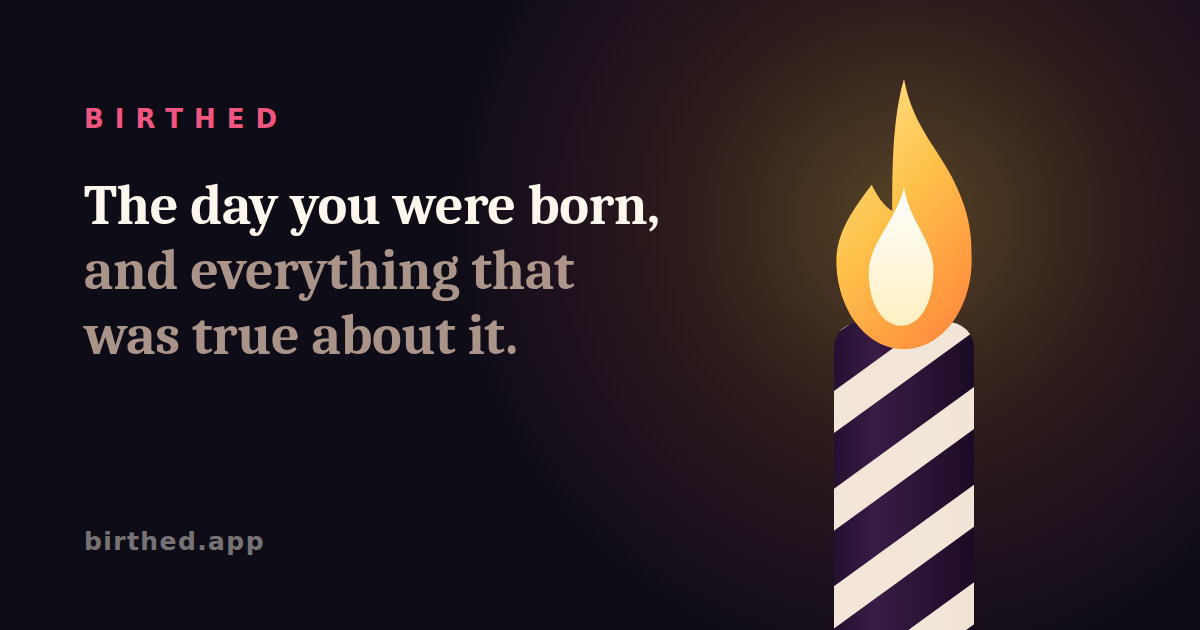
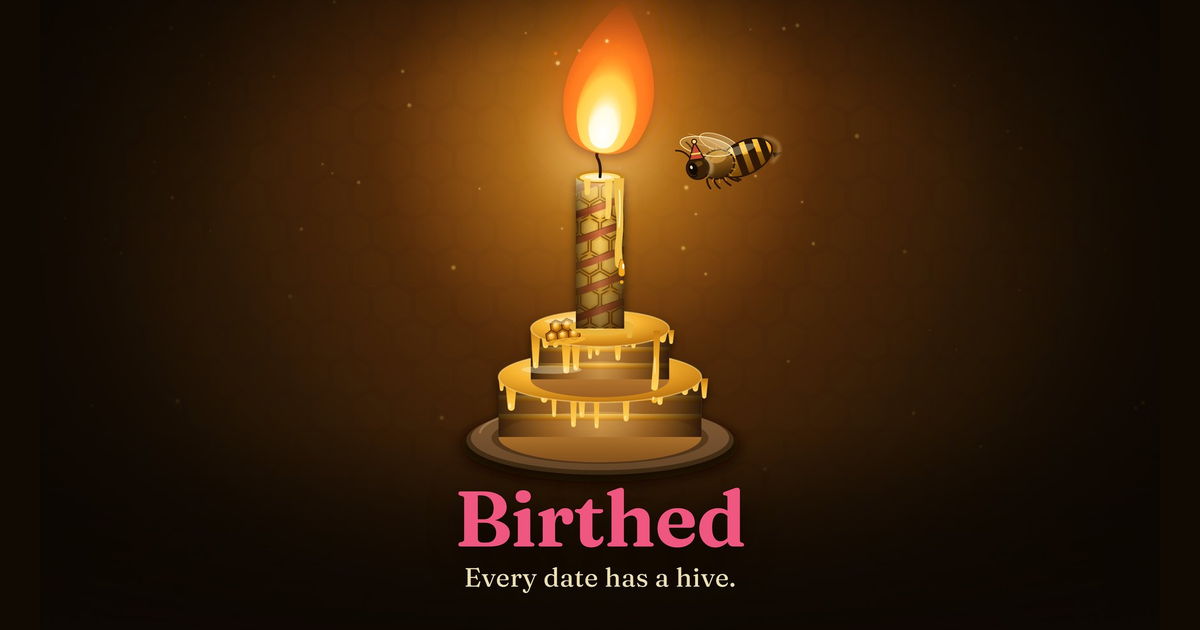
feat(web): put the hero art on the site
The cake above the About headline, the bees on the blank board of a date
with no hive yet with the opening date beside them, and the titled cake
as the share picture for the About page and every date without a board.
The promise no longer points at the archive that came off. Nothing goes
on a date with a board, so the first Buzz button stays in the first
screen. 380 web tests.

Claude-Session: https://claude.ai/code/session_01FHNyDxU3AhPSi6rzssSxXh

diff --git a/web/test/render.test.ts b/web/test/render.test.ts
@@ -752,10 +752,11 @@ test("the form on the add page loads nothing", () => {
   const html = renderAdd(API);
   const style = html.slice(html.indexOf("<style>"), html.indexOf("</style>"));
   assert.ok(style.length > 0, "the stylesheet is inlined into the page");
-  // The fetches the stylesheet makes are the typeface and the honeycomb
-  // behind the board, both from this origin, since September 22, 2026.
-  // Nothing else, and nothing from anywhere else.
-  assert.ok(!style.replace(/url\("\/(fonts\/[^"]+|honeycomb\.svg)"\)/g, "").includes("url("), "nothing in the stylesheet fetches anything but the font and the honeycomb from here");
+  // The fetches the stylesheet makes are the typeface, the honeycomb behind
+  // the board since September 22, 2026, and the hero art behind a date with
+  // no hive since October 18, 2026, all from this origin. Nothing else, and
+  // nothing from anywhere else.
+  assert.ok(!style.replace(/url\("\/(fonts\/[^"]+|honeycomb\.svg|hero\/[a-z0-9-]+\.(webp|jpg))"\)/g, "").includes("url("), "nothing in the stylesheet fetches anything but the font, the honeycomb and the hero art from here");
   assert.match(style, /\.select::after\s*{[^}]*border-right/, "the chevron is drawn with borders");
 });
 
@@ -1213,3 +1214,31 @@ test("the stylesheet is sent without its comments, and nothing in it depends on 
   assert.equal(stripCss('a { content: "x"; } /* why */\n\n\n  b { color: red; }'), 'a { content: "x"; } \nb { color: red; }');
 });
 
+
+test("the hero art: the cake above the About headline, and the bees on a date with no hive yet", () => {
+  // design/hero, October 18, 2026. Served from this site, so the image
+  // policy stays 'self'. Not on a date with a board: the board is the page.
+  const about = renderHome();
+  assert.ok(about.includes('<picture class="herobanner">'));
+  assert.ok(about.includes('srcset="/hero/hero-cake-1280.webp 1280w, /hero/hero-cake-1920.webp 1920w"'));
+  assert.ok(about.includes('src="/hero/hero-cake-1280.jpg"') && about.includes('width="1280" height="720"'), "a JPEG fallback that holds its place");
+  assert.ok(about.indexOf("herobanner") < about.indexOf("<h1>"), "the art comes before the headline");
+  const empty = renderDayPage({ month: 3, day: 3 });
+  assert.ok(empty.includes('class="wboard wblank wart"'), "a date with no hive shows the bees");
+  assert.ok(!empty.includes("Everything below"), "nothing points at the archive that came off");
+  assert.ok(empty.includes('url("/hero/hero-bees-1280.jpg")'));
+});
+
+test("the hero art: the cake above the About headline, and the bees on a date with no hive yet", () => {
+  // design/hero, October 18, 2026. Served from this site, so the image
+  // policy stays 'self'. Not on a date with a board: the board is the page.
+  const about = renderHome();
+  assert.ok(about.includes('<picture class="herobanner">'));
+  assert.ok(about.includes('srcset="/hero/hero-cake-1280.webp 1280w, /hero/hero-cake-1920.webp 1920w"'));
+  assert.ok(about.includes('src="/hero/hero-cake-1280.jpg"') && about.includes('width="1280" height="720"'), "a JPEG fallback that holds its place");
+  assert.ok(about.indexOf("herobanner") < about.indexOf("<h1>"), "the art comes before the headline");
+  const empty = renderDayPage({ month: 3, day: 3 });
+  assert.ok(empty.includes('class="wboard wblank wart"'), "a date with no hive shows the bees");
+  assert.ok(!empty.includes("Everything below"), "nothing points at the archive that came off");
+  assert.ok(empty.includes('url("/hero/hero-bees-1280.jpg")'));
+});

diff --git a/web/src/wall.ts b/web/src/wall.ts
@@ -1465,9 +1465,9 @@ export function promise(name: string, month: number, day: number, now: number): 
   // no hive yet looks like a hive waiting rather than a paragraph.
   return `<section class="wall wpromise" aria-labelledby="wallhead">
 <p class="whead">${beeSvg()}<span class="section" id="wallhead">The hive for ${escapeHtml(name)}</span> <span class="wstate">Not open yet.</span></p>
-<p class="wlede">${escapeHtml(name)} has no hive yet. Its first one opens on ${opens} at midnight Eastern, takes everything with a birthday that day and the buzzes people give it, and seals two days later, for good. Every date gets one a year, and they stack.</p>
-<div class="wboard wblank" role="img" aria-label="An empty hive. The first one for ${escapeHtml(name)} opens ${opens}.">
-<p class="wnothing"><b>First hive opens ${opens}</b><span>at midnight Eastern. Everything below takes buzzes then.</span></p>
+<p class="wlede">${escapeHtml(name)} has no hive yet. Its first one opens on ${opens} at midnight Eastern, takes the day's news and the buzzes people give it, and seals two days later, for good. Every date gets one a year, and they stack.</p>
+<div class="wboard wblank wart" role="img" aria-label="An empty hive with bees on the honeycomb. The first one for ${escapeHtml(name)} opens ${opens}.">
+<p class="wnothing"><b>First hive opens ${opens}</b><span>at midnight Eastern. Buzzing starts then.</span></p>
 </div>
 </section>`;
 }
@@ -2279,6 +2279,22 @@ export const WALL_STYLE = `
     linear-gradient(rgba(255, 243, 224, .07) 1px, transparent 1px) 0 0 / calc(100% / 16) calc(100% / 16),
     linear-gradient(90deg, rgba(255, 243, 224, .07) 1px, transparent 1px) 0 0 / calc(100% / 16) calc(100% / 16),
     var(--cell);
+}
+/* A date with no hive yet shows the bees on their honeycomb, October 18,
+   2026, design/hero: the art leaves the right side empty for words, so the
+   promise sits there. On a phone the board is taller and the words sit at
+   the foot over a shade. JPEG first for a browser without image-set. */
+.wboard.wblank.wart {
+  aspect-ratio: 21 / 9; border-color: var(--line-strong);
+  background: #0E0A06 url("/hero/hero-bees-1280.jpg") left center / cover no-repeat;
+  background-image: image-set(url("/hero/hero-bees-1280.webp") type("image/webp"), url("/hero/hero-bees-1280.jpg") type("image/jpeg"));
+}
+.wart .wnothing { justify-self: end; text-align: left; max-width: 37%; padding: 0 4% 0 0; color: var(--cream-2); }
+.wart .wnothing b { color: var(--cream); text-shadow: 0 2px 12px rgba(0, 0, 0, .6); }
+@media (max-width: 560px) {
+  .wboard.wblank.wart { aspect-ratio: 4 / 3; background-position: 22% center; }
+  .wart::after { content: ""; position: absolute; inset: 40% 0 0; border-radius: 0 0 16px 16px; background: linear-gradient(to top, rgba(14, 10, 6, .94), rgba(14, 10, 6, 0)); }
+  .wart .wnothing { position: relative; z-index: 1; align-self: end; justify-self: stretch; max-width: none; text-align: center; padding: 0 6% 18px; }
 }
 .wnothing { grid-column: 1 / -1; grid-row: 1 / -1; align-self: center; justify-self: center; margin: 0; padding: 0 8%; text-align: center; font-size: 14px; line-height: 1.5; color: var(--dimmer); text-wrap: balance; max-width: 40ch; }
 .wnothing b { display: block; margin: 0 0 6px; font-family: var(--serif); font-weight: 800; font-size: clamp(20px, 5.4cqi, 30px); line-height: 1.15; color: #EFE0B8; }

diff --git a/web/src/pages.ts b/web/src/pages.ts
@@ -133,6 +133,10 @@ export function renderHome(): string {
 ${siteBar()}
 <div class="col">
 <section class="hero">
+  <picture class="herobanner">
+    <source type="image/webp" srcset="/hero/hero-cake-1280.webp 1280w, /hero/hero-cake-1920.webp 1920w" sizes="(max-width: 760px) 100vw, 720px">
+    <img src="/hero/hero-cake-1280.jpg" srcset="/hero/hero-cake-1280.jpg 1280w, /hero/hero-cake-1920.jpg 1920w" sizes="(max-width: 760px) 100vw, 720px" width="1280" height="720" alt="A beeswax birthday candle burning on a honey cake, with a bee in a party hat flying beside the flame.">
+  </picture>
   <div class="herotext">
     <h1>Every date has a hive. <span class="glow">Here is how to play.</span></h1>
     <p class="lede">Birthed is a small game about the calendar. Every day, whoever shows up decides what mattered about that date. At midnight it locks for good, and next year the same date gets another go.</p>

diff --git a/web/src/render.ts b/web/src/render.ts
@@ -666,6 +666,10 @@ h2.plain { font-family: var(--serif); font-weight: 800; font-size: clamp(22px, 5
 .home .hero { margin: 8px 0 0; max-width: 760px; }
 .home .hero h1 { font-size: clamp(35px, 6.6vw, 60px); letter-spacing: -0.012em; }
 .herotext { min-width: 0; }
+/* The cake moment from design/hero, October 18, 2026, above the headline.
+   Width and height on the img hold its place while it loads. */
+.herobanner { display: block; margin: 4px 0 22px; border-radius: 20px; overflow: hidden; border: 1px solid var(--line); background: #0E0A06; aspect-ratio: 16 / 9; }
+.herobanner img { display: block; width: 100%; height: 100%; object-fit: cover; }
 /* The second half of the sentence, in honey italic: the live hive's own
    headline, "September 22. What will still matter?", said the same way. It
    was a pink to violet gradient clipped to the type, the one thing every

diff --git a/web/test/wall.test.ts b/web/test/wall.test.ts
@@ -58,7 +58,7 @@ test("a date page without a hive yet says when its first one opens", () => {
   assert.ok(html.includes('class="wall wpromise"'));
   assert.ok(html.includes("September 9 has no hive yet. Its first one opens on September 8,"));
   // A blank board is drawn with the opening date on it, and no tiles.
-  assert.ok(html.includes('class="wboard wblank"'));
+  assert.ok(html.includes('class="wboard wblank wart"'), "with the bees on it since October 18, 2026");
   assert.ok(html.includes("First hive opens September 8,"));
   assert.ok(!html.includes('class="wtile'));
 });

diff --git a/CLAUDE.md b/CLAUDE.md
@@ -453,7 +453,15 @@ here as they land.
   honey cake, one bee) and the bees on honeycomb (text space on the
   right). Honey palette, amber and deep brown; the wordmark is the only
   pink, per the September 22 rule. Fraunces for the wordmark and tagline
-  "Every date has a hive." Nothing on birthed.app references the files yet.
+  "Every date has a hive."
+- **Where the site uses them, wired in the same day.** The cake sits above
+  the About headline (`herobanner` in `pages.ts`, WebP with a JPEG
+  fallback). The bees fill the blank board of a date with no hive yet
+  (`wart` in `wall.ts`), with the opening date in the space the art leaves
+  on the right, or over a shade at the foot on a phone. `og-home.png`, the
+  share picture for the About page and every date with no board, is the
+  titled cake at 1200 by 630. Not on a date with a board: the board is the
+  page, and the first Buzz button stays in the first screen.
 
 ### The pivot paused, and the strip, October 18, 2026
 
